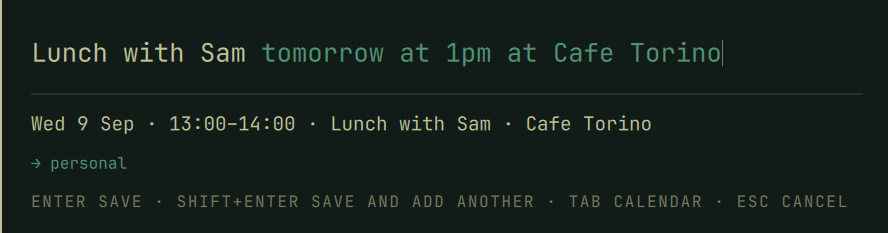
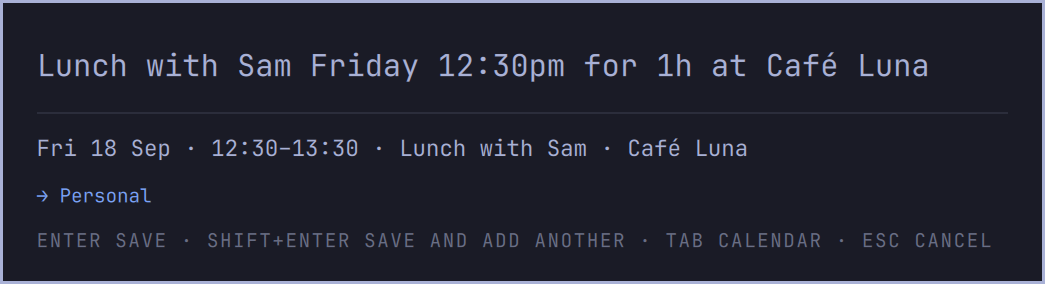
Refresh v0.2.0 screenshots and record the remaining release evidence
- preview.png, docs/screenshots/panel.png and quick-add.png were retaken on
  the live shell from tools/demo-vdir.py data only. The panel shows the
  current footer with event actions and C CALENDARS, and the pill counts
  down to a demo event. The old images showed the removed calendar sets
  ("SET: ALL") and the old Quick Add field.
- panel-tokyo-night.png showed the removed footer too. It is removed, and a
  themed screenshot goes on the PLAN backlog.
- STATUS.md and the reviewer checklist record the live Google acceptance
  run on e7d1e7e (10/10) and the live all-day/timed fix check.
  publishing.md ticks the screenshots and the prepared gh-pages privacy
  update (local commit 8cfcac9, published with the release).

Changed region(s): [[0.0, 0.0, 1.0, 1.0]]

diff --git a/STATUS.md b/STATUS.md
@@ -2,8 +2,11 @@
 
 Repository release prep is based on `2fd4a01`; see [CHANGELOG.md](CHANGELOG.md).
 Recorded provider evidence: Google candidate `8f8a026` passed all 10 checks
-on 2026-09-14; iCloud candidate `d57be3d` passed all 16 on 2026-09-15.
-Both disposable calendars were deleted. These runs predate later fixes;
+on 2026-09-14, and again on `e7d1e7e` (the Google echo fix) on 2026-09-16;
+iCloud candidate `d57be3d` passed all 16 on 2026-09-15. All disposable
+calendars were deleted. The all-day/timed switch fix (`2fd4a01`) was
+verified live by the watcher's next sync of the PM's affected event.
+These runs predate later fixes;
 [the reviewer checklist](docs/reviewer-checklist.md) records their scope.
 The PM reports live checks today of delete, sentence edit, the calendar pick
 list, clicking days and times without “at” on the code leading to `2fd4a01`.
@@ -18,8 +21,9 @@ Still unverified: fresh-machine install, reboot, source update, full overlay,
 iOS property conflicts, multi-calendar iCloud discovery through the real pair,
 installed config migration, normal five-minute watcher sync, expired-auth UX
 and guest-metadata acceptance. Detailed panel acceptance steps remain where
-not covered by the PM's report. Claude owns the two refreshed screenshots,
-gh-pages privacy update, final review and annotated tag; the PM decides push.
+not covered by the PM's report. The screenshots were regenerated from demo
+data and the privacy page update is prepared locally on gh-pages; the final
+review and annotated tag follow, and the PM decides the push.
 Offline clone of `release-0.2.0` at `9b3e3e1` passed on 2026-09-16:
 plugin validation, `python3 -m py_compile` for all 46 `.py` files plus the CLI,
 313 isolated Python tests, all four Node files (90 individual checks), CLI

diff --git a/docs/publishing.md b/docs/publishing.md
@@ -15,8 +15,11 @@ are recorded for the candidate commit.
       regenerated from `tools/demo-vdir.py`
 - [x] Repository version and changelog prepared for v0.2.0
 - [x] Offline clone checks passed on `9b3e3e1` (see STATUS.md)
-- [ ] Screenshots regenerated for v0.2.0 (Claude)
-- [ ] Hosted privacy page updated on gh-pages (Claude)
+- [x] Screenshots regenerated for v0.2.0 (Claude): `preview.png`,
+      `docs/screenshots/panel.png` and `docs/screenshots/quick-add.png` from
+      `tools/demo-vdir.py`; the outdated Tokyo Night image was removed
+- [x] Hosted privacy page update prepared on gh-pages (Claude, local commit
+      `8cfcac9`); publish it together with the release push
 - [ ] Final go/no-go review and annotated v0.2.0 tag (Claude)
 - [ ] The version in `manifest.json` matches the git tag
 - [ ] A fresh-machine run of the README's install block actually works
@@ -49,7 +52,7 @@ are recorded for the candidate commit.
 > renCal or OmaCal for the month grid, keep them.
 
 **Screenshots:** `preview.png`,
-`docs/screenshots/panel.png`, `docs/screenshots/quick-add.png` (refresh pending)
+`docs/screenshots/panel.png`, `docs/screenshots/quick-add.png`
 
 ## awesome-omarchy
 
@@ -66,8 +69,6 @@ descriptively, to say where the idea came from. Do not use it in the
 name, the tagline, the plugin id, or the keywords, and do not reuse any
 Flexibits icon, screenshot, or copy.
 
-The existing quick-add screenshot shows the previous simulated text field.
-Replace it with an isolated, fictional-data capture before using it in a listing.
 
 The PM decides when to push and submits both listings. Repository preparation
 must not create the tag or publish the branch. The offline clone check is

diff --git a/docs/reviewer-checklist.md b/docs/reviewer-checklist.md
@@ -52,6 +52,17 @@ reports the individual checks. Offline clone verification is recorded in
 
 ## Current limits
 
+### Recorded Google script run — 2026-09-16
+
+Candidate `e7d1e7e`, which stops Google's echo of a just-created event from
+reverting a pending local edit, passed `python tools/google-acceptance.py
+--run-live` on the maintainer's machine: all ten checks, including
+conflicting local edit recovery, and the disposable calendar was deleted.
+Run from a Claude Code session with desktop keyring and network access; no
+personal events were read. It does not exercise an edit made between a
+create and the next pull; `tests/test_sync_bridge_orchestration.py`
+`EditVersusEchoTest` covers that sequence with the fake bridge.
+
 ### Recorded Google script run — 2026-09-14
 
 Candidate `8f8a026` passed `python tools/google-acceptance.py --run-live`

diff --git a/CHANGELOG.md b/CHANGELOG.md
@@ -70,9 +70,8 @@
   Today's panel checks do not establish every step of the longer acceptance lists.
 - Alarm notifications require an explicit alarm on a timed event; all-day
   alarms and configurable default lead times are not implemented.
-- Screenshots and the hosted privacy page still need the release handoff. See
-  [STATUS.md](STATUS.md) and [reviewer checks](docs/reviewer-checklist.md) for
-  evidence and remaining work.
+- Evidence and remaining checks are in [STATUS.md](STATUS.md) and the
+  [reviewer checks](docs/reviewer-checklist.md).
 
 ## v0.1.0
 

diff --git a/PLAN.md b/PLAN.md
@@ -191,6 +191,7 @@ reviewers who use their own registered client.
 - Move an event to another calendar (requested by the PM 2026-09-16); edit refuses this for now.
 - Edit and delete single occurrences of recurring events.
 - Edit events with guests.
+- A themed README screenshot (the Tokyo Night image was dropped for v0.2.0 because it showed the removed calendar sets).
 - Templates and the Microsoft bridge remain deferred; see the current-status deferrals at the top of this plan and the Phase 5 budget note in §9.
 
 ## 9. Delivery plan and budget

diff --git a/README.md b/README.md
@@ -19,9 +19,7 @@ Quick Add parses as you type and previews the event before you save.
 Its native text field supports cursor movement, selection, undo and paste.
 
 It takes its colours from your theme, because it reads the theme's own
-palette rather than shipping one:
-
-![The panel under Tokyo Night](docs/screenshots/panel-tokyo-night.png)
+palette rather than shipping one.
 
 ## Install
 
